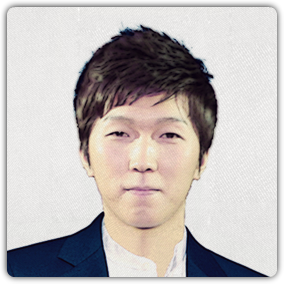
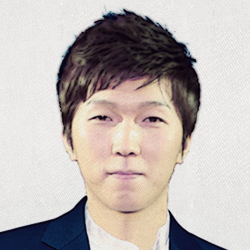
profile

Changed region(s): [[0.0, 0.0, 1.0, 1.0], [0.392, 0.56, 0.588, 0.728]]

diff --git a/src/components/avatar/index.tsx b/src/components/avatar/index.tsx
@@ -9,7 +9,7 @@ interface AvatarProps {
 }
 
 const StyledAvatar = styled(Img)<AvatarProps>`
-  max-width: 65px;
+  max-width: 70px;
   border-radius: 100%;
 `;
 
@@ -21,7 +21,7 @@ const Avatar: FunctionComponent<AvatarProps> = ({alt, style}) => {
     query {
       file(sourceInstanceName: {eq: "themeAssets"}, name: {eq: "blogger"}) {
         childImageSharp {
-          fixed(width: 65, height: 65) {
+          fixed(width: 70, height: 70) {
             ...GatsbyImageSharpFixed
           }
         }

diff --git a/config.js b/config.js
@@ -42,7 +42,7 @@ module.exports = {
     search: true,
     author: {
         name: `winuss`,
-        description: `I'm <strong>yoo seongsu</strong>, every end is a new beginning.
+        description: `Every end is a <strong>new beginning</strong>.
             <a href="https://devtimes.com" rel="noopener" target="_blank">devtimes.com</a>`,
         social: {
             facebook: ``,
